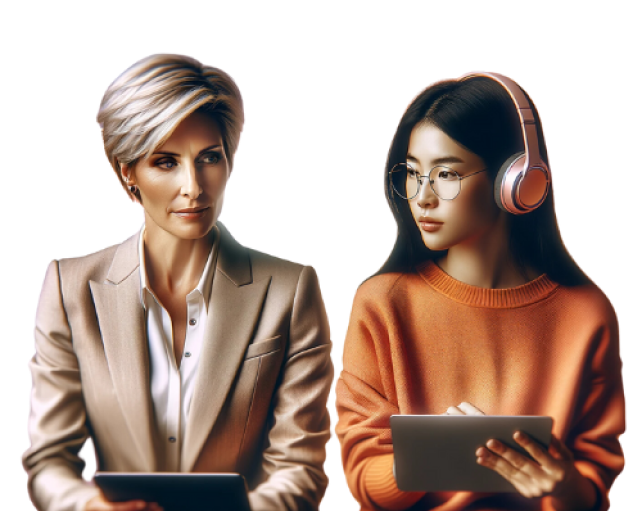
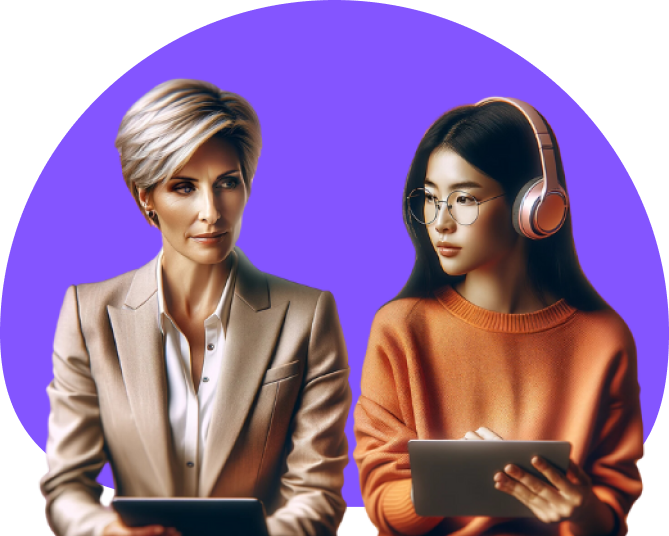
Update home component HTML, SCSS, and imports

diff --git a/src/app/components/home/home.component.ts b/src/app/components/home/home.component.ts
@@ -1,10 +1,11 @@
+import { NgOptimizedImage } from '@angular/common';
 import { HeaderComponent } from './../header/header.component';
 import { Component } from '@angular/core';
 
 @Component({
   selector: 'app-home',
   standalone: true,
-  imports: [HeaderComponent],
+  imports: [HeaderComponent, NgOptimizedImage],
   providers: [],
   templateUrl: './home.component.html',
   styleUrl: './home.component.scss'

diff --git a/src/app/components/home/home.component.html b/src/app/components/home/home.component.html
@@ -6,7 +6,7 @@
       <span> Pablo Almeida</span>
       <h1>A consultoria que você busca para seu software</h1>
     </div>
-    <img ngsrc="/assets/principal.png" width="660" height="530">
+    <img ngSrc="./assets/principal.png" width="669" height="536" />
 </section>
 
 </main>

diff --git a/src/styles.scss b/src/styles.scss
@@ -1,2 +1,9 @@
 @import "https://fonts.googleapis.com/css2?family=Roboto:ital,wght@0,400;1,700;1,900&display=swap";
+@import "https://fonts.googleapis.com/css2?family=Poppins:wght@400;600;700&display=swap";
 
+
+* {
+  margin: 0;
+  padding: 0;
+  box-sizing: border-box;
+}

diff --git a/src/app/components/home/home.component.scss b/src/app/components/home/home.component.scss
@@ -11,7 +11,7 @@
   }
 
   h1 {
-    font-size: 60px;
+    font-size: 72px;
     font-weight: 900;
   }
 }
